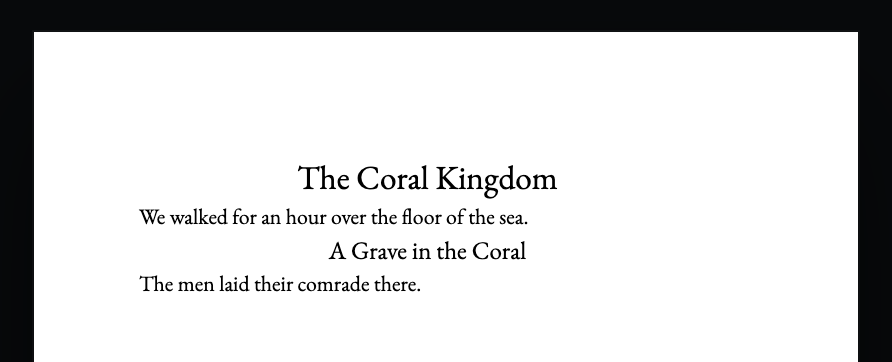
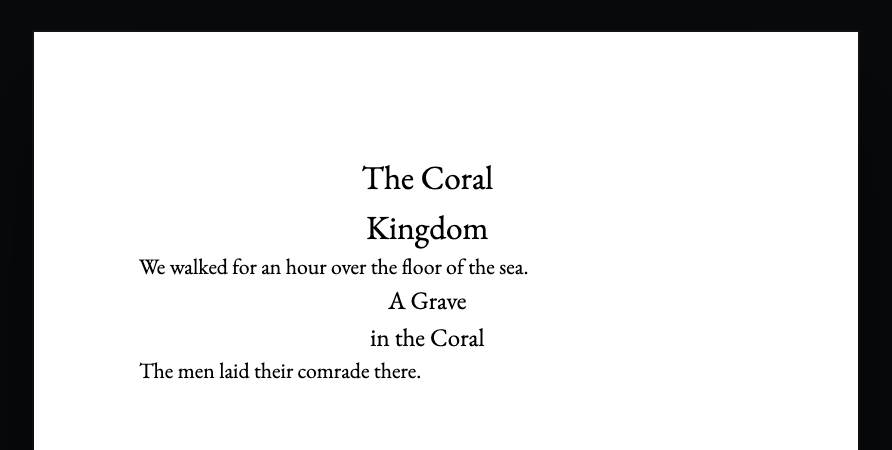
Break each setext example heading across two lines
Claude-Session: https://claude.ai/code/session_01PPTVmjWYWe5YnWoj3FHzSy

Changed region(s): [[0.1513, 0.4558, 0.6357, 0.8508], [0.0303, 0.0608, 0.9686, 0.0912], [0.3935, 0.3646, 0.5751, 0.4254]]

diff --git a/e2e/shots.spec.ts b/e2e/shots.spec.ts
@@ -1212,7 +1212,7 @@ const SET_ON: Record<string, string> = {
   "heading-attributes": "An Interlude",
   "image-attributes": "The shell of",
   span: "The Nautilus lay",
-  "setext-heading": "The Coral Kingdom",
+  "setext-heading": "The Coral",
 };
 
 /** The examples the page shows as written only, since a break is plainer said than pictured. */

diff --git a/site/src/marks/setext-heading.md b/site/src/marks/setext-heading.md
@@ -1,9 +1,10 @@
-The Coral Kingdom
-=================
+The Coral\
+Kingdom
+=======
 
 We walked for an hour over the floor of the sea.
 
-A Grave
+A Grave\
 in the Coral
 ------------
 
